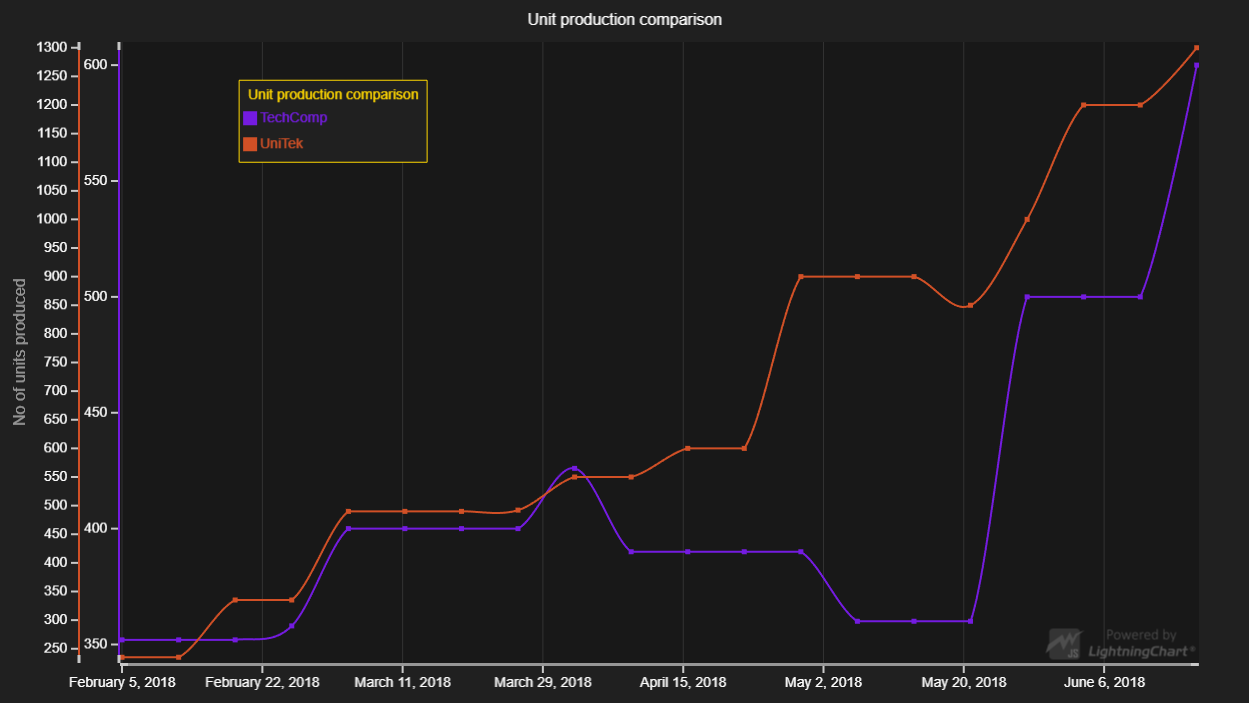
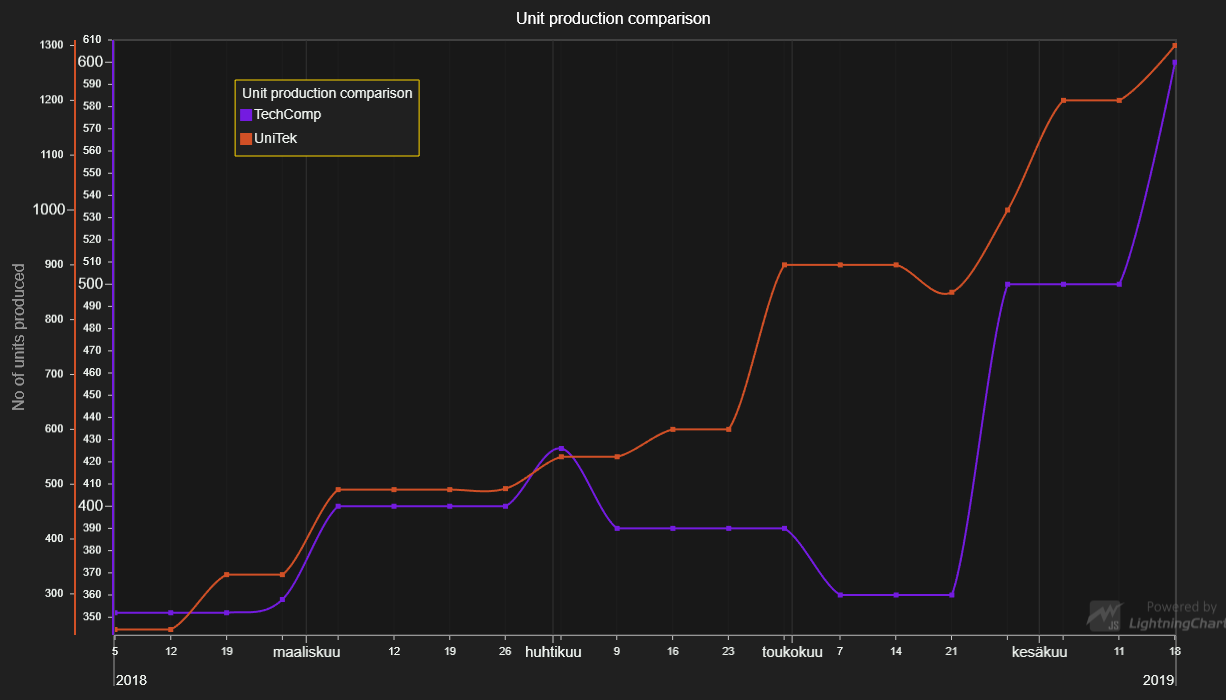
LCJS 2.0.0

diff --git a/src/index.js b/src/index.js
@@ -15,7 +15,8 @@ const {
     emptyLine,
     AxisTickStrategies,
     LegendBoxBuilders,
-    UIOrigins
+    UIOrigins,
+    Themes
 } = lcjs
 
 // ----- Cache used styles -----
@@ -27,16 +28,14 @@ const axisYStrokeStyles = axisYStyles.map((fillStyle) => new SolidLine({ fillSty
 const axisYStylesHighlight = axisYStyles.map((fillStyle) => fillStyle.setA(100))
 const axisXStyleHighlight = new SolidFill({ color: colors[2].setA(100) })
 const seriesStrokeStyles = axisYStrokeStyles
-const axisLabelStyle = new SolidFill({ color: ColorRGBA(255, 255, 255) })
 const fittingRectangleStrokeStyle = new SolidLine({ fillStyle: new SolidFill({ color: ColorRGBA(255, 255, 255, 100) }), thickness: 2 })
 const zoomingRectangleFillStyle = new SolidFill({ color: colors[2].setA(100) })
 
 // Decide on an origin for DateTime axis.
 const dateOrigin = new Date(2018, 1, 5)
-
 // Create a XY Chart.
 const chart = lightningChart().ChartXY({
-    defaultAxisXTickStrategy: AxisTickStrategies.DateTime(dateOrigin)
+    // theme: Themes.dark
 })
     .setPadding({
         right: 50
@@ -50,17 +49,33 @@ const chart = lightningChart().ChartXY({
 const axisX = chart.getDefaultAxisX()
     .setOverlayStyle(axisXStyleHighlight)
     .setNibOverlayStyle(axisXStyleHighlight)
-    .setTickStyle(visibleTick => visibleTick
-        .setLabelFillStyle(axisLabelStyle)
+    // Set the X Axis to use DateTime TickStrategy
+    .setTickStrategy(
+        AxisTickStrategies.DateTime,
+        (tickStrategy) => tickStrategy.setDateOrigin(dateOrigin)
     )
 
+// Style the default Y Axis.
 const axisY1 = chart.getDefaultAxisY()
     .setStrokeStyle(axisYStrokeStyles[0])
     .setOverlayStyle(axisYStylesHighlight[0])
     .setNibOverlayStyle(axisYStylesHighlight[0])
-    .setTickStyle(visibleTick => visibleTick
-        .setLabelFillStyle(axisLabelStyle)
-        .setGridStrokeStyle(emptyLine)
+    // Modify the TickStrategy to remove gridLines from this Y Axis.
+    .setTickStrategy(
+        // Use Numeric TickStrategy as base.
+        AxisTickStrategies.Numeric,
+        // Use mutator to modify the TickStrategy.
+        tickStrategy => tickStrategy
+            // Modify Major Tick Style by using a mutator.
+            .setMajorTickStyle(
+                tickStyle => tickStyle
+                    .setGridStrokeStyle(emptyLine)
+            )
+            // Modify Minor Tick Style by using a mutator.
+            .setMinorTickStyle(
+                tickStyle => tickStyle
+                    .setGridStrokeStyle(emptyLine)
+            )
     )
 
 // Create additional styled Y axis on left side.
@@ -69,9 +84,22 @@ const axisY2 = chart.addAxisY(false)
     .setStrokeStyle(axisYStrokeStyles[1])
     .setOverlayStyle(axisYStylesHighlight[1])
     .setNibOverlayStyle(axisYStylesHighlight[1])
-    .setTickStyle(visibleTick => visibleTick
-        .setLabelFillStyle(axisLabelStyle)
-        .setGridStrokeStyle(emptyLine)
+    // Modify the TickStrategy to remove gridLines from this Y Axis.
+    .setTickStrategy(
+        // Use Numeric TickStrategy as base.
+        AxisTickStrategies.Numeric,
+        // Use mutator to modify the TickStrategy.
+        tickStrategy => tickStrategy
+            // Modify Major Tick Style by using a mutator.
+            .setMajorTickStyle(
+                tickStyle => tickStyle
+                    .setGridStrokeStyle(emptyLine)
+            )
+            // Modify Minor Tick Style by using a mutator.
+            .setMinorTickStyle(
+                tickStyle => tickStyle
+                    .setGridStrokeStyle(emptyLine)
+            )
     )
 
 // Create series with explicit axes.

diff --git a/README.md b/README.md
@@ -78,15 +78,25 @@ axis
     .setTitle( 'My axis' )
     // Configure axis line style.
     .setStrokeStyle( axisStrokeStyle )
-    // Configure axis tick style.
-    .setTickStyle( visibleTicks => visibleTicks
-        // Fill Style.
-        .setLabelFillStyle( axisLabelFillStyle )
-        // Font.
-        .setLabelFont( font => font
-            // Configure the font.
-            ...
-        )
+    // Configure axis tick style by modifying the Axis TickStrategy.
+    .setTickStrategy(
+        // Use Numeric TickStrategy as Base.
+        AxisTickStrategies.Numeric,
+        // Use a mutator to modify the TickStrategy.
+        ( tickStrategy ) => tickStrategy
+            // Modify the Major Ticks for the TickStrategy.
+            // Minor and Extreme TickStyles must be set separately.
+            .setMajorTickStyle( visibleTicks => visibleTicks
+                // Label fill Style.
+                .setLabelFillStyle( axisLabelFillStyle )
+                // Font.
+                .setLabelFont( font => font
+                    // Configure the font.
+                    ...
+                )
+                // Grid stroke style
+                .setGridStrokeStyle( gridStrokeStyle )
+            )
     )
     // Configure axis overlay style (interactive axis area).
     .setOverlayStyle( axisFillStyleHighlight )
@@ -97,14 +107,14 @@ axis
 
 ## API Links
 
-* XY cartesian chart: [ChartXY]
-* Axis: [Axis]
-* Spline series: [SplineSeries]
-* Color palettes: [ColorPalettes]
-* RGBA color factory: [ColorRGBA]
-* Solid FillStyle: [SolidFill]
-* Solid LineStyle: [SolidLine]
-* Auto cursor XY: [AutoCursorXY]
+* [XY cartesian chart]
+* [Axis]
+* [Spline series]
+* [Color palettes]
+* [RGBA color factory]
+* [Solid FillStyle]
+* [Solid LineStyle]
+* [Auto cursor XY]
 
 
 ## Support
@@ -128,12 +138,12 @@ Direct developer email support can be purchased through a [Support Plan][4] or b
 © Arction Ltd 2009-2020. All rights reserved.
 
 
-[ChartXY]: https://www.arction.com/lightningchart-js-api-documentation/v1.3.0/classes/chartxy.html
-[Axis]: https://www.arction.com/lightningchart-js-api-documentation/v1.3.0/classes/axis.html
-[SplineSeries]: https://www.arction.com/lightningchart-js-api-documentation/v1.3.0/classes/splineseries.html
-[ColorPalettes]: https://www.arction.com/lightningchart-js-api-documentation/v1.3.0/globals.html#colorpalettes
-[ColorRGBA]: https://www.arction.com/lightningchart-js-api-documentation/v1.3.0/globals.html#colorrgba
-[SolidFill]: https://www.arction.com/lightningchart-js-api-documentation/v1.3.0/classes/solidfill.html
-[SolidLine]: https://www.arction.com/lightningchart-js-api-documentation/v1.3.0/classes/solidline.html
-[AutoCursorXY]: https://www.arction.com/lightningchart-js-api-documentation/v1.3.0/interfaces/autocursorxy.html
+[XY cartesian chart]: https://www.arction.com/lightningchart-js-api-documentation/v2.0.0/classes/chartxy.html
+[Axis]: https://www.arction.com/lightningchart-js-api-documentation/v2.0.0/classes/axis.html
+[Spline series]: https://www.arction.com/lightningchart-js-api-documentation/v2.0.0/classes/splineseries.html
+[Color palettes]: https://www.arction.com/lightningchart-js-api-documentation/v2.0.0/globals.html#colorpalettes
+[RGBA color factory]: https://www.arction.com/lightningchart-js-api-documentation/v2.0.0/globals.html#colorrgba
+[Solid FillStyle]: https://www.arction.com/lightningchart-js-api-documentation/v2.0.0/classes/solidfill.html
+[Solid LineStyle]: https://www.arction.com/lightningchart-js-api-documentation/v2.0.0/classes/solidline.html
+[Auto cursor XY]: https://www.arction.com/lightningchart-js-api-documentation/v2.0.0/interfaces/autocursorxy.html
 
